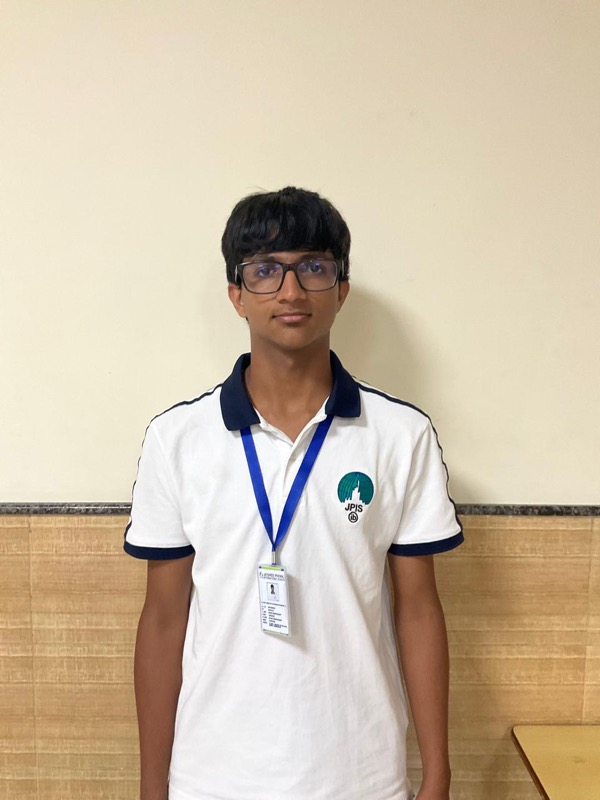
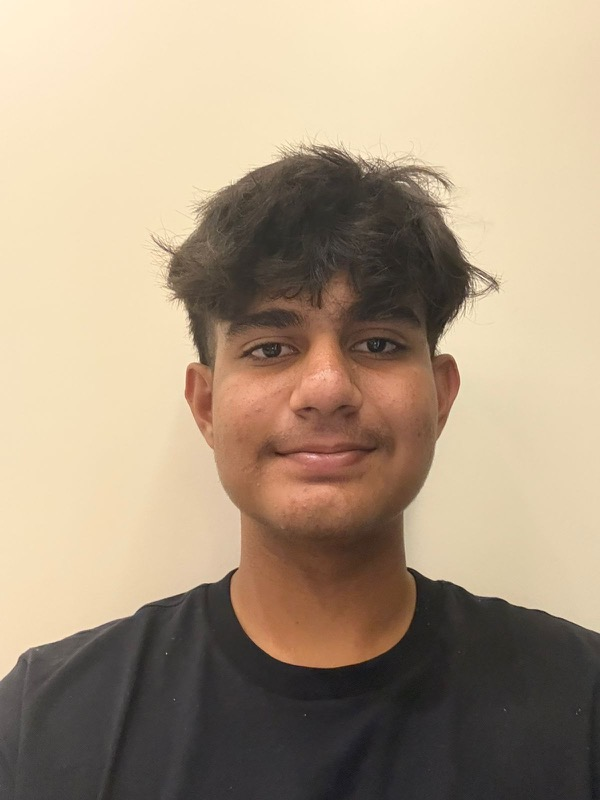
Team: replace Karan Showkatramani with Arsh Motwani

diff --git a/data/team.ts b/data/team.ts
@@ -54,7 +54,7 @@ export const coreTeam = [
 
 export const logisticsTeam = [
   {
-    name:  'Karan Showkatramani',
+    name:  'Arsh Motwani',
     role:  'Logistics Head',
     image: '/images/logistics-karan.jpg',
     bio:   'Coordinates equipment pickups, deliveries, and storage across the city.',
